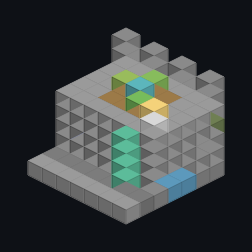
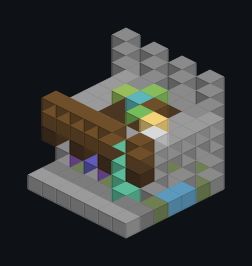
feat(art): st4c aesthetics pass over the navy outpost pieces

Changed region(s): [[0.0833, 0.0833, 0.9167, 0.9167]]

diff --git a/art/structures/navy_outpost/wall_tower.py b/art/structures/navy_outpost/wall_tower.py
@@ -14,7 +14,7 @@ ledge level with the walkway, so the walkway runs on to the doors in the core. T
 Inside, a ladder on the core's north wall climbs from the ground floor through a landing level with the walkway (y 4; a
 door in each side wall at z 2 leads out onto the curtain's walkway, the one away from the wall stays shut) to the
 roof. The ground floor's door on the landward face (z 5) opens under a blue banner onto the path at the wall's foot."""
-from _style import (EAST_Z, PALETTE, WALK, WEST_Z, age, arrow_slit, banner, connector, door, flagpole, fort_face,
+from _style import (dry, EAST_Z, PALETTE, WALK, WEST_Z, age, arrow_slit, banner, connector, door, flagpole, fort_face,
                     merlons, stair_shape)
 from buildspec import Piece
 
@@ -99,6 +99,7 @@ age(p)
 connector(p, 0, 0, EAST_Z, "wall_east_in", "west", "minecraft:stone_bricks")
 connector(p, S - 1, 0, WEST_Z, "wall_west_in", "east", "minecraft:stone_bricks")
 
+dry(p)
 p.emit("crenellated corner tower: a set-back core between corner pilasters, corbelled roof, lanterns and the navy flag",
        ["Ends a wall run: wall_east_in [0, 0, 2] (west face) or wall_west_in [6, 0, 3] (east face).",
         "Landing at the walkway's height (y 4) with doors west and east at z 2; roof platform y 9."])

diff --git a/art/structures/navy_outpost/fort_gate.py b/art/structures/navy_outpost/fort_gate.py
@@ -19,7 +19,7 @@ stairs up to the walkway on the east side. On the west side the harbor master's 
 framed in dark oak under a blue panel; a shuttered window south): the harbor master's desk facing the door and a notice
 board, a cartography table, shelves, a chest, a blue banner. Its flat roof joins the curtain's walkway to the west
 wall's."""
-from _style import (PALETTE, WALK, age, arrow_slit, banner, buttress, connector, curtain, door, flagpole,
+from _style import (dry, PALETTE, WALK, age, arrow_slit, banner, buttress, connector, curtain, door, flagpole,
                     fort_face, lantern_post, merlons, stair, stair_shape, stool, window)
 from buildspec import Piece
 
@@ -198,6 +198,7 @@ connector(p, S - 1, 0, 2, "wall_east_out", "east", "minecraft:stone_bricks")
 connector(p, 0, 0, 3, "wall_west_out", "west", "minecraft:stone_bricks")
 connector(p, S - 1, 0, APRON_Z, "building_out", "south", "minecraft:gravel")
 
+dry(p)
 p.emit("walled fort gate: sea gate to the quay under a guard shelter, parade court with the navy flag, harbor master's "
        "office, towered gatehouse with a portcullis",
        ["Start piece. Sea to the north: quay_out [7, 0, 0]; the paving (y 0) sits one block above sea level.",

diff --git a/art/structures/navy_outpost/wall.py b/art/structures/navy_outpost/wall.py
@@ -14,7 +14,7 @@ lantern stands at its head. z 5..6 is a gravel path along the foot of the wall.
 
 Connectors (foundation row): wall_east_in [0, 0, 2] (west face) and wall_east_out [6, 0, 2] (east face) for the run
 that grows east, wall_west_out [0, 0, 3] and wall_west_in [6, 0, 3] for the one that grows west (see _style)."""
-from _style import (EAST_Z, PALETTE, WALK, WEST_Z, age, cannon, connector, curtain, fence_run, lantern_post,
+from _style import (dry, EAST_Z, PALETTE, WALK, WEST_Z, age, cannon, connector, curtain, fence_run, lantern_post,
                     rafter_ends, stair_shape)
 from buildspec import Piece
 
@@ -69,6 +69,7 @@ connector(p, W - 1, 0, EAST_Z, "wall_east_out", "east", "minecraft:stone_bricks"
 connector(p, 0, 0, WEST_Z, "wall_west_out", "west", "minecraft:stone_bricks")
 connector(p, W - 1, 0, WEST_Z, "wall_west_in", "east", "minecraft:stone_bricks")
 
+dry(p)
 p.emit("stone curtain wall with pilasters, a recessed bay, corbelled parapet, a cannon and a timber hoarding",
        ["Sea to the north. Walkway top y 4; cannon master [3, 5, 1] facing north, rear [3, 5, 2].",
         "East run: wall_east_in [0, 0, 2] -> wall_east_out [6, 0, 2]; west run: wall_west_in [6, 0, 3] -> "

diff --git a/art/structures/navy_outpost/brig.py b/art/structures/navy_outpost/brig.py
@@ -11,7 +11,7 @@ Inside, a guard room across the front (the guard's table with a stool, a chest a
 of chain) and two cells along the back, divided by a stone wall. Each cell is fronted by a row of brig bars with a brig
 door in the middle (both halves closed and unlocked: a generated door has no owner, see BrigDoorBlock), straw bedding,
 a cauldron, shackle chains from the ceiling and a barred window in the back wall."""
-from _style import (PALETTE, age, bars, brig_door, buttress, chain, connector, door, fort_face, lantern_post, merlons,
+from _style import (dry, PALETTE, age, bars, brig_door, buttress, chain, connector, door, fort_face, lantern_post, merlons,
                     stool, table)
 from buildspec import Piece
 
@@ -101,6 +101,7 @@ age(p, where=lambda x, y, z: not (X0 < x < X1 and Z0 < z < Z1 and y == 0))
 
 connector(p, 4, 0, 0, "building_in", "north", "minecraft:cobblestone")
 
+dry(p)
 p.emit("stone brig with buttresses, recessed bays and a crenellated roof, a guard room and two cells of brig bars",
        ["Door and building_in [4, 0, 0] on the north side; row z 0 is the doorstep.",
         "Cell fronts on z 4: brig bars with a brig door (closed, unlocked) at x 2 and x 6."])

diff --git a/art/structures/navy_outpost/watchtower.py b/art/structures/navy_outpost/watchtower.py
@@ -7,7 +7,7 @@ set back between the pilasters from a sloped plinth up to a corbel table under t
 door, a blue banner hangs high on the front, arrow slits of iron bars light the stair. Inside, a ladder on the back
 wall climbs from the ground through a hatch in the platform (y 10). The platform is planked, railed with spruce fences,
 and roofed on four bark posts with a low hipped spruce roof (dark oak eaves) with a lantern hanging in the middle."""
-from _style import (PALETTE, age, arrow_slit, banner, bars, buttress, connector, door, fence_run, fort_face, stair,
+from _style import (dry, PALETTE, age, arrow_slit, banner, bars, buttress, connector, door, fence_run, fort_face, stair,
                     stair_shape)
 from buildspec import Piece
 
@@ -85,6 +85,7 @@ age(p, where=lambda x, y, z: y < DECK)
 
 connector(p, 2, 0, 0, "building_in", "north", "minecraft:cobblestone")
 
+dry(p)
 p.emit("tall stone watchtower with buttresses, set-back sides, a ladder and a roofed lookout platform",
        ["Door and building_in [2, 0, 0] on the north side; row z 0 is the doorstep.",
         "Lookout platform floor y 10 (hatch at [2, 10, 3]), roof y 13."])

diff --git a/art/structures/navy_outpost/barracks.py b/art/structures/navy_outpost/barracks.py
@@ -10,7 +10,7 @@ rises past the eave with smoke from its top.
 Inside: bunks along the back wall (blue beds, the outer two pairs doubled up), a sea chest at each bunk pair, the
 hearth between the bunks with a blue banner over it, a mess table with stools, a weapon rack (a row of fences with
 pressure plates), stores and a lantern hanging from the ridge."""
-from _style import (PALETTE, banner, bed, chimney, connector, door, rafter_ends, stair_shape, stool, table,
+from _style import (dry, PALETTE, banner, bed, chimney, connector, door, rafter_ends, stair_shape, stool, table,
                     window, age)
 from buildspec import Piece
 
@@ -102,5 +102,6 @@ age(p, where=lambda x, y, z: not (X0 < x < X1 and Z0 < z < Z1))
 
 connector(p, 5, 0, 0, "building_in", "north", "minecraft:cobblestone")
 
+dry(p)
 p.emit("timber-framed barracks on a stone plinth under a spruce roof, with a chimney, bunks, a hearth and a mess table",
        ["Door and building_in [5, 0, 0] on the north side; row z 0 is the doorstep."])

diff --git a/art/structures/navy_outpost/quay.py b/art/structures/navy_outpost/quay.py
@@ -9,7 +9,7 @@ On the deck: mooring rings and cleats along both edges, bollards (stone brick wa
 crane at the seaward end (a spruce post with a fence jib to the west edge and a lantern hanging from it; nothing
 reaches over the berths), lantern
 posts, a ladder down to the water at the end, and a few crates waiting to be loaded."""
-from _style import PALETTE, age, banner, chain, connector, lantern_post, stair, stair_shape
+from _style import dry, PALETTE, age, banner, chain, connector, lantern_post, stair, stair_shape
 from buildspec import Piece
 
 W, H, L = 7, 9, 18
@@ -93,6 +93,7 @@ p.berth(0, SEA, BERTH_Z, "north")
 p.berth(W - 1, SEA, BERTH_Z, "north")
 connector(p, 3, DECK, L - 1, "quay_in", "south", "minecraft:stone_bricks")
 
+dry(p)
 p.emit("stone quay with mooring rings, cleats, bollards, a crane and two berths",
        ["Runs north from quay_in (south end, deck y 5 = the fort gate's paving row).",
         "Sea level is row y 4; berth markers at [0, 4, 9] and [6, 4, 9], bow north."])

diff --git a/art/structures/navy_outpost/_style.py b/art/structures/navy_outpost/_style.py
@@ -354,6 +354,15 @@ def chimney(piece, x, z, y0, y1, smoke=True):
                             "west=none]")
 
 
+def dry(piece):
+    """Drops ``waterlogged=false`` (the default) from every block state of the piece before it is emitted: the lab's
+    preview colours any state that mentions water as water, which painted every stair, bar and fence blue."""
+    for k, v in list(piece.palette.items()):
+        if "waterlogged=false" in v:
+            v = v.replace(",waterlogged=false", "").replace("waterlogged=false,", "").replace("[waterlogged=false]", "")
+            piece.palette[k] = v
+
+
 def chain(piece, x, y0, y1, z):
     """A chain from ``y0`` up to ``y1`` (hanging from the block above it)."""
     piece.fill(x, y0, z, x, y1, z, "chain")

diff --git a/art/README.md b/art/README.md
@@ -1334,11 +1334,26 @@ post to each other's lab session.
 ### Navy outpost (ST3)
 The navy fort (design.md §10.1) as a third piece set, group `navy_outpost`, built with the same pipeline and
 conventions (y 0 the foundation row, pieces face north, the sea to the north). Look: stone bricks and polished
-andesite masonry, oak and spruce woodwork, blue wool and blue banners for the navy, lanterns on iron bars. The
+andesite masonry, spruce and dark oak woodwork (since ST4c), blue wool and blue banners for the navy, lanterns on iron bars. The
 generators share `art/structures/navy_outpost/_style.py`: the palette, the jigsaw table, the fittings (doors, beds,
 tables, stools, lantern posts, brig doors, the cannon, the flagpole) and `curtain()`, the curtain wall's section that
 the gate, the wall and the tower share so the walkway runs through: foundation and solid body on z 0..4 up to the
 walkway (top row y 4, people stand on y 5), the seaward parapet on z 0 (y 5) with merlons above it.
+
+**ST4c pass (look of the buildings, design.md §10.1):** every outpost piece was rebuilt to the standing rule, with the
+same boxes, connectors, berths, garrison posts, gate openings, court level, cannon and cell doors. The set's palette is
+one stone (stone bricks with mossy, cracked and chiseled variants; polished andesite for string courses, kerbs and
+walkways), two woods (spruce for structure, roofs, hoardings and floors; dark oak for trim: shutters, sills, brackets,
+rafter ends, gun decks, door posts) and the navy's blue as the accent. `_style.py` gained the fittings every piece uses:
+`fort_face` (the outer skin of a fort wall: pilasters, recessed bays on a sloped plinth, an upside-down stair corbel
+table; `curtain()` now builds its seaward skin with it, pilasters at both ends so walls meet flush pilaster to
+pilaster), `merlons` (slab-capped), `string_course`, `arrow_slit` (open or barred), `buttress`, `window` (pane or iron
+bars, trapdoor sill and open trapdoor shutters where the box has room), `rafter_ends`, `chimney` (a stack with a smoking
+campfire), `chain`, `fence_run` (joined fence rails), `bars`/`pane`/`fence`/`stair_shape` (full states), `age` (a
+deterministic weathering gradient: mossy on the ground row, less one and two rows up, cracked bricks scattered; a
+position hash, never `random`, so rebuilds are byte-identical) and `dry` (drops the default `waterlogged=false` from
+the emitted states, because the lab's preview paints any state that mentions water blue). Pieces were reviewed from
+all four corners (the lab's renders and `--views`) and as face-on elevations.
 
 **Pools:** `pirates_n_ships:navy_outpost/start` (the fort gate), `navy_outpost/walls` (the wall), `navy_outpost/
 buildings` (barracks, brig, watchtower), `navy_outpost/quay` (the quay) and `navy_outpost/terminators` (the wall
@@ -1373,13 +1388,13 @@ the waterline.
 
 | piece | size (x×y×z) | blocks | contents | mod blocks |
 |---|---|---|---|---|
-| `fort_gate` (start) | 15×10×15 | 837 | the curtain wall along the sea side with an arched sea gate (x 6..8) to the quay, the parade court (andesite path between the gates, the navy flag on a pole, lantern posts, cargo), stone stairs up to the walkway on the east side, the harbor master's office on the west side (door east; the desk facing the door, a notice board, a cartography table, shelves, a chest; its flat roof joins the walkway), and the landward gatehouse: an arched gate between two pillars with lanterns and blue banners, onto a gravel apron (row z 14) | `harbor_desk`, `notice_board`, `flagpole`, `cargo_crate`, `cargo_barrel` |
-| `quay` | 7×9×18 | 579 | a solid stone brick mole (x 1..5) from the seabed to the deck, mossy at the waterline; andesite kerbs, mooring rings and cleats along both edges, four bollards (stone brick walls under upside-down stairs), a crane at the seaward end (spruce post, fence jib to the deck edge, a hanging lantern), lantern posts, a ladder down to the water, cargo; berths [0, 4, 9] and [6, 4, 9] | `mooring_ring`, `cleat`, `cargo_crate`, `cargo_barrel` |
-| `wall` | 7×8×7 | 209 | a curtain wall segment: walkway, merlons, an embrasure in the parapet with a cannon behind it on an oak gun platform (master [3, 5, 1], rear [3, 5, 2], muzzle north), a powder barrel beside it, a ladder up the landward face, a lantern on the walkway, a gravel path at the foot | `cannon`, `cargo_barrel` |
-| `wall_tower` (terminator) | 7×12×7 | 345 | a crenellated corner tower: ground floor (door landward), a landing level with the walkway with doors out onto both sides, a roof platform at y 9 with lanterns on the corner merlons and the navy flag on a pole in the middle; one ladder through all floors | `flagpole`, `cargo_barrel` |
-| `barracks` | 11×9×9 | 360 | andesite walls on a stone brick plinth, spruce roof; six bunks (blue beds, two doubled up), sea chests, a mess table with stools, a weapon rack (fences with pressure plates), a hanging lantern | `cargo_crate` |
-| `brig` | 9×8×9 | 316 | a stone lock-up with a flat roof behind a parapet: a guard room (table, stool, chest, barrel, lanterns) and two cells, each fronted by brig bars with a brig door, with straw, a cauldron and a barred window | `brig_bars`, `brig_door` |
-| `watchtower` | 5×14×5 | 234 | a stone shaft with arrow slits, a ladder inside to a hatch in the lookout platform (y 10, overhanging the doorstep on a stair corbel), fence rails, a slab roof on four posts with a hanging lantern | |
+| `fort_gate` (start) | 15×10×15 | 934 | the curtain wall along the sea side (pilasters, recessed bays with arrow slits on a mossy sloped plinth, corbelled parapet, capped merlons) with an arched sea gate (x 6..8, chiseled keystone) to the quay and a timber guard shelter with the alarm bell over it; flanks and landward wall two thick with the same skin, embrasures for the guards; the parade court (andesite path between the gates, the navy flag on a pole on a stepped pedestal, lantern posts, cargo), stone stairs up to the walkway on the east side, the harbor master's office on the west side (door east in a dark oak frame under a blue panel, a shuttered window south; the desk facing the door, a notice board, a cartography table, shelves, a chest, a barrel, a blue banner; its flat roof joins the walkway), and the landward gatehouse: an arched gate between two square towers (lanterns and capped merlons, arrow slits, blue banners), a raised portcullis of iron bars in its slot under the navy's colours, buttresses onto a gravel apron (row z 14) | `harbor_desk`, `notice_board`, `flagpole`, `cargo_crate`, `cargo_barrel` |
+| `quay` | 7×9×18 | 591 | a solid stone brick mole (x 1..5) from the seabed to the deck, weathered mossy at and below the waterline; andesite kerbs and bands across the deck, mooring rings and cleats along both edges, four bollards (stone brick walls under upside-down stairs), a crane at the seaward end (spruce log post with dark oak braces, fence jib to the deck edge with a hanging lantern and a hoist chain, a crate counterweight, a blue banner), a capstan, chains on the deck, lantern posts, a ladder down to the water, cargo; berths [0, 4, 9] and [6, 4, 9] | `mooring_ring`, `cleat`, `cargo_crate`, `cargo_barrel` |
+| `wall` | 7×8×7 | 215 | a curtain wall segment: pilasters at both ends, a recessed bay with two arrow slits on a mossy sloped plinth, a corbel table under the parapet, slab-capped merlons; an embrasure with a cannon behind it on a dark oak gun deck (master [3, 5, 1], rear [3, 5, 2], muzzle north), a powder barrel and a shot locker beside it; landward a timber hoarding (spruce deck on dark oak brackets, fence rail) over an arched store niche with powder and shot, a ladder up, a lantern on the walkway, a gravel path at the foot | `cannon`, `cargo_barrel`, `cargo_crate` |
+| `wall_tower` (terminator) | 7×12×7 | 358 | a crenellated corner tower: a 5×5 core set back between four full-height corner pilasters, sloped mossy plinth, barred arrow slits, a corbel table carrying the 7×7 roof platform (y 9) with capped merlons, lanterns on the corner merlons and the navy flag on a pole in the middle; ground floor (door landward under a blue banner, a barrel with a lantern, a crate), a landing level with the walkway (corbelled ledges outside, doors out onto both sides, powder, a chest), one ladder through all floors, a blue banner on the sea face | `flagpole`, `cargo_barrel`, `cargo_crate` |
+| `barracks` | 11×9×9 | 395 | a timber frame (spruce log corners, stripped posts, a beam course) with polished andesite infill on a mossy stone brick plinth, dark oak door posts under a blue panel, shuttered windows with sills front and back, spruce gables with a tie beam and window, a spruce roof with dark oak eaves over dark oak rafter ends, two lanterns hanging by the door, a stone chimney breast and stack with smoke at the back; six bunks (blue beds, two doubled up), sea chests, the hearth with a blue banner over it, a mess table with stools, a weapon rack (fences with pressure plates), stores, a runner, a hanging lantern | `cargo_crate` |
+| `brig` | 9×8×9 | 351 | a stone lock-up: pilasters and recessed bays on a mossy sloped plinth on the sides and back (the cells' barred windows in the recesses), corner buttresses and a stone portal (chiseled keystone, slab hood) round the door in front, barred windows, lantern posts, a flat roof behind slab-capped merlons with lanterns on the front corners; a guard room (table, stool, chest, barrel, crate, lanterns, key chain) and two cells, each fronted by brig bars with a brig door, with straw, a cauldron, shackle chains and a barred window | `brig_bars`, `brig_door`, `cargo_crate` |
+| `watchtower` | 5×14×5 | 249 | a stone shaft with corner pilasters, set-back sides on a sloped mossy plinth under corbels, an andesite band, buttresses flanking the door, a blue banner high on the front, barred arrow slits, a ladder inside to a hatch in the lookout platform (y 10, overhanging the doorstep on a stair corbel), fence rails, a low hipped spruce roof with dark oak eaves on four bark posts with a hanging lantern | |
 
 Renders: `art/renders/structures/navy_outpost/{fort_gate,quay,wall,wall_tower,barracks,brig,watchtower}.png`.
 
